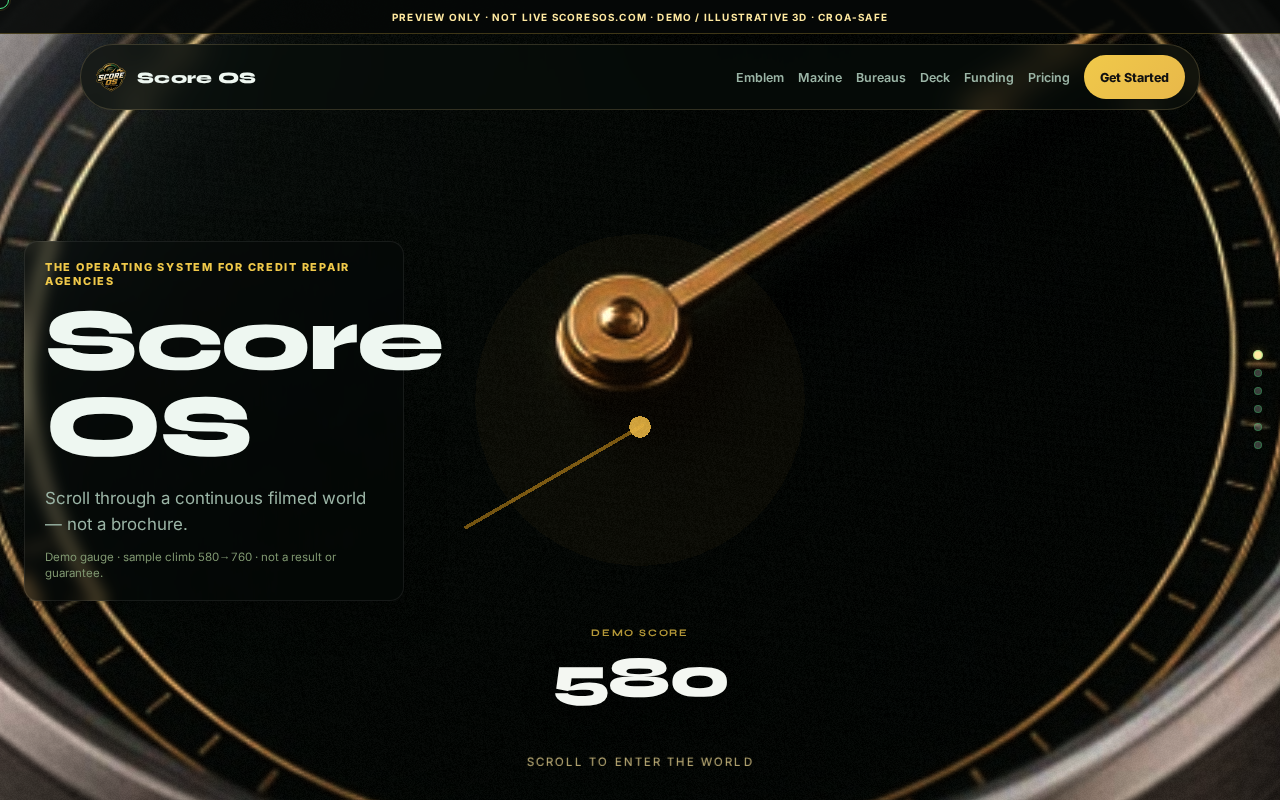
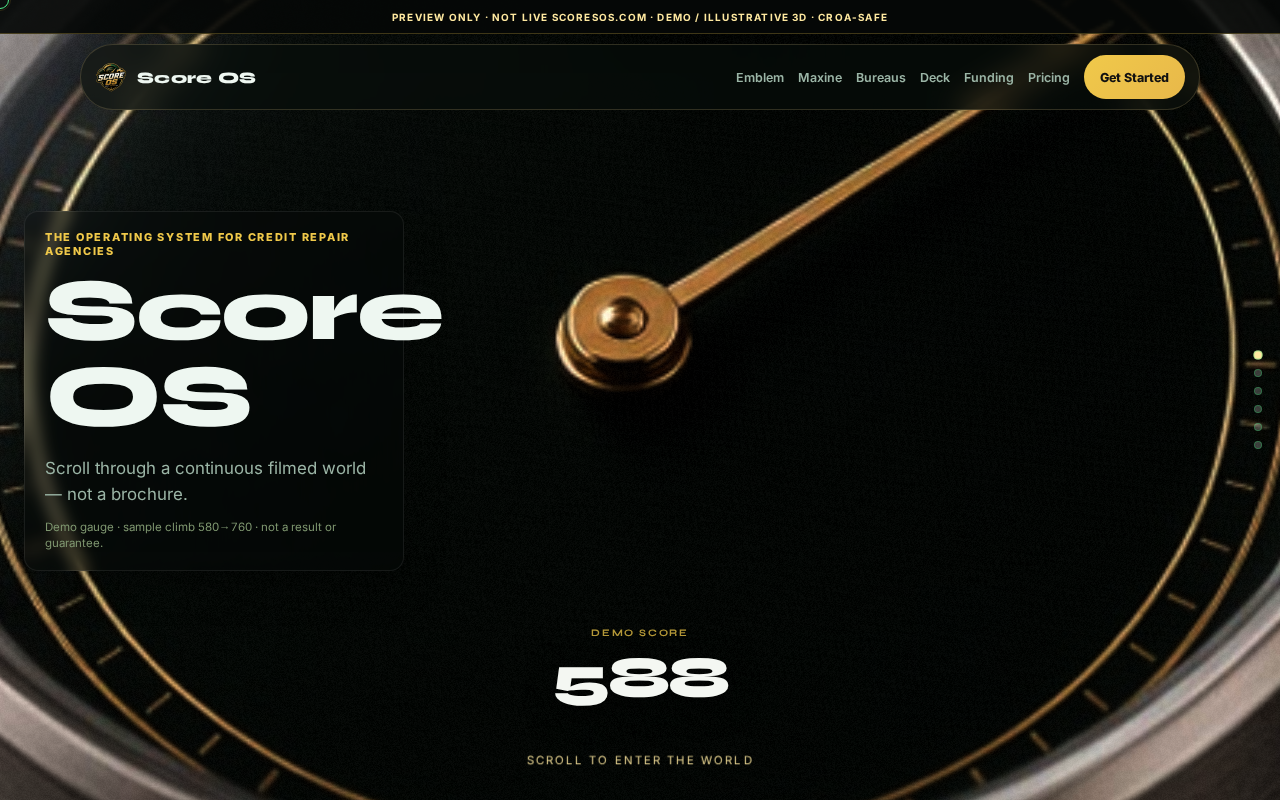
Remove beat-1 Three.js needle; DOM demo score only
Drop the misaligned gold needle/hub overlay that fought the photo brass
needle. Keep the climbing demo-score readout. Disable bloom (was streaking
photo gold) and soften beat-dot glow so overlays stop competing with stills.

diff --git a/js/world.js b/js/world.js
@@ -1,12 +1,11 @@
 /**
  * Score OS world — hybrid photoreal stills/video + interactive Three.js overlays.
  * Heroes are cinematic photographs (and scroll-scrubbed clips). Three.js only
- * handles particles, cursor glow, live gauge needle/score HUD, and depth parallax.
+ * handles particles, soft cursor glow, DOM demo-score HUD, and depth parallax.
  */
 import * as THREE from 'three';
 import { EffectComposer } from '../vendor/postprocessing/EffectComposer.js';
 import { RenderPass } from '../vendor/postprocessing/RenderPass.js';
-import { UnrealBloomPass } from '../vendor/postprocessing/UnrealBloomPass.js';
 import { ShaderPass } from '../vendor/postprocessing/ShaderPass.js';
 
 const BEAT_META = [
@@ -190,7 +189,7 @@ export async function createWorld(canvas, opts = {}) {
   scene.add(dust);
 
   // Cursor-reactive warm glow orb (subtle)
-  const glowGeo = new THREE.SphereGeometry(0.55, 24, 24);
+  const glowGeo = new THREE.SphereGeometry(0.28, 16, 16);
   const glowMat = new THREE.MeshBasicMaterial({
     color: 0xd4b46a,
     transparent: true,
@@ -202,40 +201,12 @@ export async function createWorld(canvas, opts = {}) {
   glow.position.set(0, 0, 4.5);
   scene.add(glow);
 
-  // Live gauge HUD — DOM-synced score + thin Three needle ring (beat 1 only)
-  const gaugeGroup = new THREE.Group();
-  gaugeGroup.position.set(0, -0.15, 2.2);
-  scene.add(gaugeGroup);
-  const needlePivot = new THREE.Group();
-  gaugeGroup.add(needlePivot);
-  const needleMat = new THREE.MeshBasicMaterial({
-    color: 0xe8c75a,
-    transparent: true,
-    opacity: 0.55,
-    depthWrite: false,
-  });
-  const needle = new THREE.Mesh(new THREE.BoxGeometry(0.02, 1.15, 0.01), needleMat);
-  needle.position.y = 0.55;
-  needlePivot.add(needle);
-  const hub = new THREE.Mesh(
-    new THREE.CircleGeometry(0.06, 24),
-    new THREE.MeshBasicMaterial({ color: 0xf0d78a, transparent: true, opacity: 0.9, depthWrite: false })
-  );
-  needlePivot.add(hub);
-  gaugeGroup.visible = false;
+  // Demo score is DOM-only — no Three.js needle (photo gauge already has a real brass needle)
 
   // Post
   const composer = new EffectComposer(renderer);
   composer.addPass(new RenderPass(scene, camera));
-  if (!isMobile) {
-    const bloom = new UnrealBloomPass(
-      new THREE.Vector2(window.innerWidth, window.innerHeight),
-      0.10, // strength — keep subtle so photos stay photographic
-      0.6,
-      0.88
-    );
-    composer.addPass(bloom);
-  }
+  // Bloom disabled — was blooming photo brass/gold into fake HUD streaks
   const grain = new ShaderPass(GrainShader);
   grain.uniforms.amount.value = isMobile ? 0.028 : 0.038;
   composer.addPass(grain);
@@ -333,27 +304,23 @@ export async function createWorld(canvas, opts = {}) {
     }
     dust.geometry.attributes.position.needsUpdate = true;
     dust.rotation.z = time * 0.01;
-    dustMat.opacity = 0.14 + Math.abs(mouseSmooth.x) * 0.06;
+    dustMat.opacity = 0.08 + Math.abs(mouseSmooth.x) * 0.04;
 
     // Cursor glow
     glow.position.x = mouseSmooth.x * 3.2;
     glow.position.y = mouseSmooth.y * 2.0;
-    glowMat.opacity = 0.05 + Math.hypot(mouse.x - mouseSmooth.x, mouse.y - mouseSmooth.y) * 0.25;
+    // Keep near-invisible so it never reads as a circle on the photo
+    const mouseDelta = Math.hypot(mouse.x - mouseSmooth.x, mouse.y - mouseSmooth.y);
+    glowMat.opacity = Math.min(0.04, mouseDelta * 0.08);
+    glow.visible = glowMat.opacity > 0.008;
 
-    // Gauge needle + live score on beat 1
+    // Demo score climb on beat 1 — DOM only (no second needle)
     const onGauge = progress < 0.18;
-    gaugeGroup.visible = onGauge && !isMobile;
     scoreEl.classList.toggle('on', onGauge);
     if (onGauge) {
       const climb = Math.min(1, progress / 0.16);
       const score = Math.round(580 + (760 - 580) * climb);
       scoreEl.querySelector('.ls-num').textContent = String(score);
-      // map score to needle angle (-120deg .. +120deg)
-      const ang = THREE.MathUtils.degToRad(-120 + 240 * climb);
-      needlePivot.rotation.z = -ang;
-      gaugeGroup.position.x = mouseSmooth.x * 0.15;
-      gaugeGroup.position.y = -0.15 + mouseSmooth.y * 0.08;
-      needleMat.opacity = 0.55 + climb * 0.35;
     }
 
     grain.uniforms.time.value = time;

diff --git a/styles.css b/styles.css
@@ -145,7 +145,7 @@ h2{font-size:clamp(2.2rem, 5.5vw, 3.8rem)}
   background:rgba(255,255,255,0.22); border:1px solid rgba(47,212,106,0.35);
   transition:transform .25s, background .25s, box-shadow .25s;
 }
-.beat-dots i.on{background:var(--gold-soft); box-shadow:0 0 8px rgba(240,201,74,0.35); transform:scale(1.25)}
+.beat-dots i.on{background:var(--gold-soft); box-shadow:none; transform:scale(1.2)}
 
 .cursor{
   position:fixed; left:0; top:0; width:18px; height:18px; margin:-9px 0 0 -9px;
